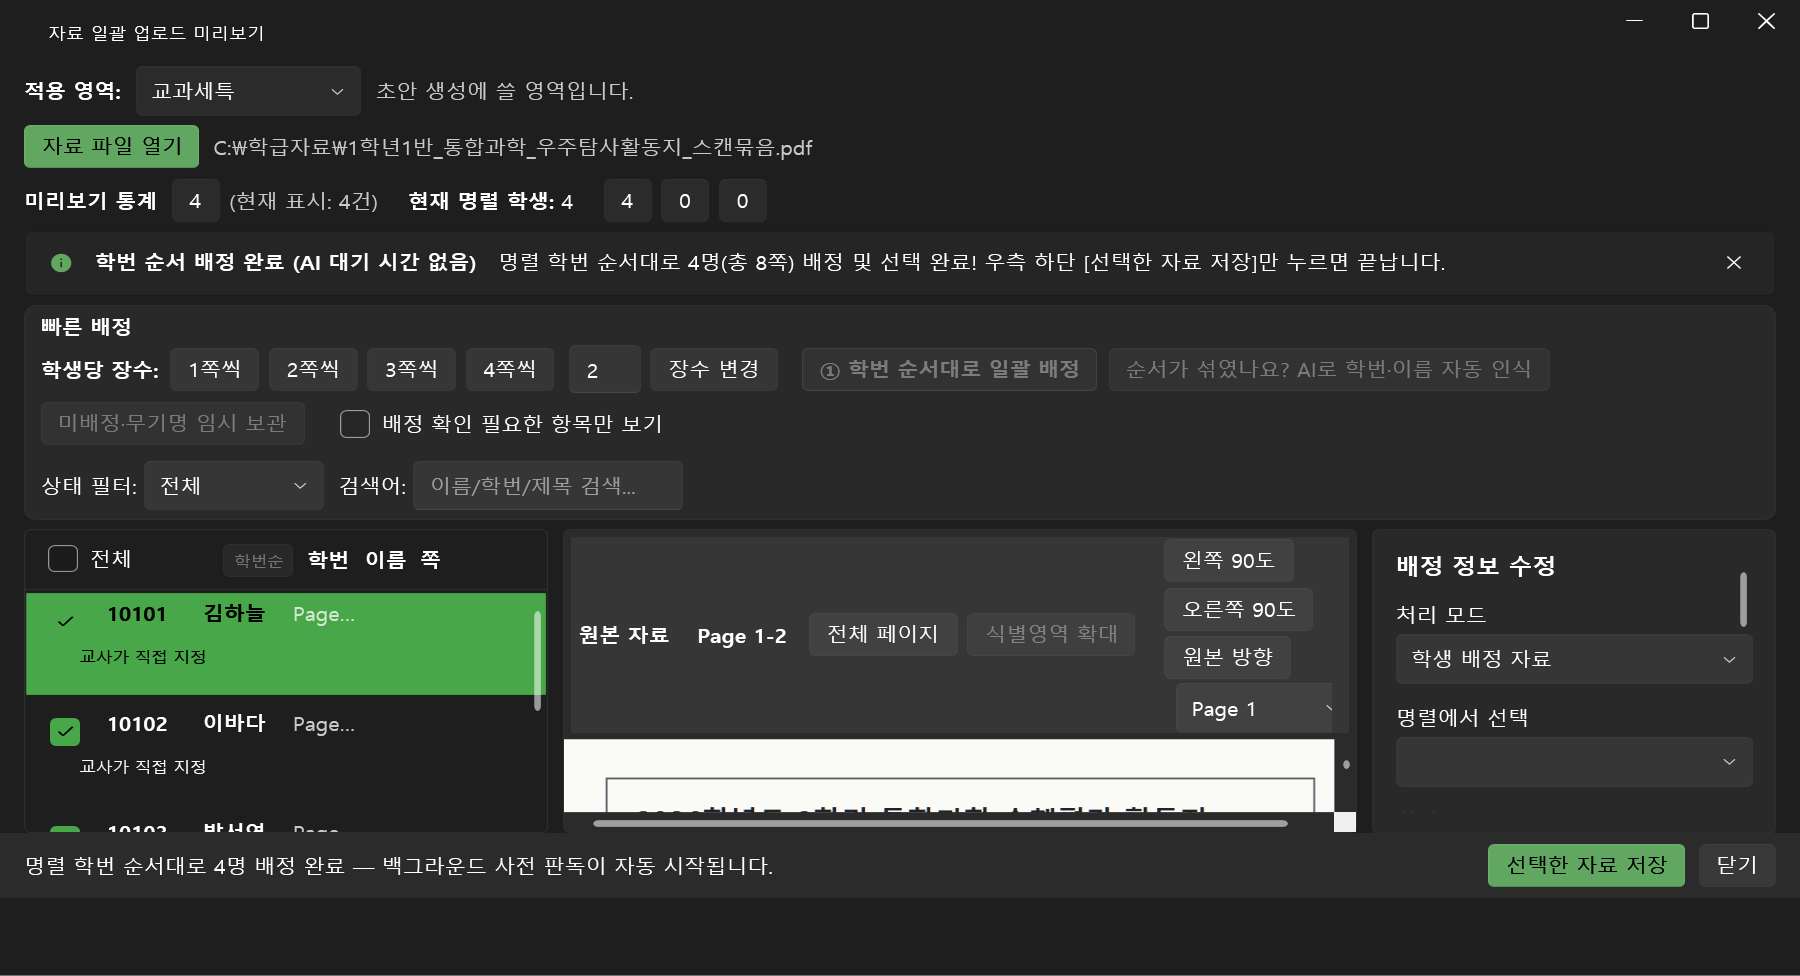
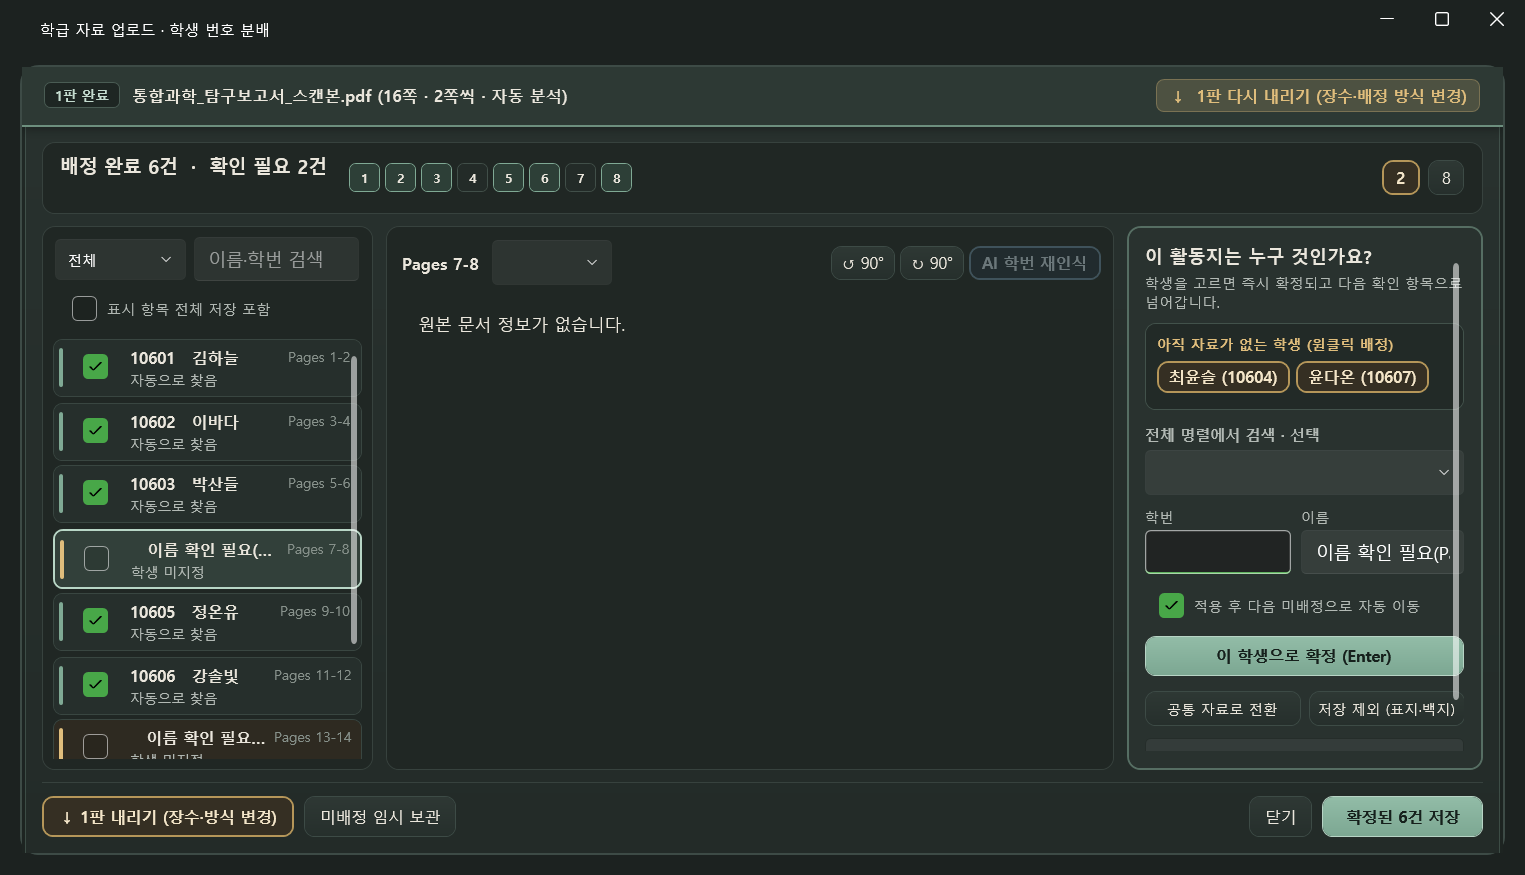
Update KIBU site and manual screenshots to v1.6.1 Slate Chalkboard edition

diff --git a/docs/manual.html b/docs/manual.html
@@ -140,7 +140,7 @@
                         <p>메인 화면 오른쪽 위 <strong>[설정]</strong>을 눌러 키를 붙여넣고 <strong>[API 키 연결 확인]</strong>을 눌러 보세요. <em>"연결 정상 — 바로 사용하실 수 있습니다!"</em> 문구가 나오면 하단 <strong>[저장]</strong>만 누르시면 됩니다.</p>
                         <div class="mockup-frame">
                             <div class="mockup-header"><div class="dot"></div><div class="dot"></div><div class="dot"></div></div>
-                            <img src="../img/17_API키_입력.png?v=150" alt="환경 설정 및 API 키 연결 확인">
+                            <img src="../img/17_API키_입력.png?v=161" alt="환경 설정 및 API 키 연결 확인">
                         </div>
 
                         <ul>
@@ -165,7 +165,7 @@
 
                         <div class="mockup-frame">
                             <div class="mockup-header"><div class="dot"></div><div class="dot"></div><div class="dot"></div></div>
-                            <img src="../img/20_프로젝트_생성.png?v=158" alt="시작 화면 및 최근 학급 프로젝트 이어하기">
+                            <img src="../img/20_프로젝트_생성.png?v=161" alt="시작 화면 및 최근 학급 프로젝트 이어하기">
                         </div>
 
                         <ul>
@@ -176,7 +176,7 @@
 
                         <div class="mockup-frame">
                             <div class="mockup-header"><div class="dot"></div><div class="dot"></div><div class="dot"></div></div>
-                            <img src="../img/26_스마트_단계안내.png?v=158" alt="단계별 스마트 가이드 보드 화면">
+                            <img src="../img/26_스마트_단계안내.png?v=161" alt="단계별 시작 안내 화면">
                         </div>
                     </section>
 
@@ -234,7 +234,7 @@
                         <p>나이스 명렬표 엑셀을 먼저 넣은 뒤, 학급 전체를 스캔한 묶음 PDF를 열면 AI를 기다리지 않고 페이지가 바로 나타납니다.</p>
                         <div class="mockup-frame">
                             <div class="mockup-header"><div class="dot"></div><div class="dot"></div><div class="dot"></div></div>
-                            <img src="../img/09_학생자료_자동배분.png?v=150" alt="스캔 묶음 빠른 배정 화면">
+                            <img src="../img/09_학생자료_자동배분.png?v=161" alt="스캔 묶음 번호 분배 화면">
                         </div>
                         <ol>
                             <li><strong>학생당 장수 고르기:</strong> 한 학생당 활동지가 2쪽이면 상단의 <strong>[2쪽씩]</strong> 버튼을 누릅니다.</li>
@@ -282,7 +282,7 @@
                         <p>그냥 기본 설정으로 생성하셔도 훌륭한 초안이 나오지만, 이번 수행평가에서 특별히 강조하고 싶은 결이 있다면 두 가지 방법으로 아주 쉽게 지정할 수 있습니다.</p>
                         <div class="mockup-frame">
                             <div class="mockup-header"><div class="dot"></div><div class="dot"></div><div class="dot"></div></div>
-                            <img src="../img/04_맞춤프롬프트_설정.png?v=160" alt="맞춤 작성 방향 · 프롬프트 센터">
+                            <img src="../img/04_맞춤프롬프트_설정.png?v=161" alt="작성 방식 · 서술 지침 칠판">
                         </div>
                         <ul>
                             <li><strong>① [맞춤 방향] 통합 프롬프트 센터:</strong> 과목에 상관없이 쓸 수 있는 5가지 대표 방향(<code>개념 적용·심화 탐구</code> / <code>비판적 분석·문제해결</code> / <code>창의 표현·산출물 완성</code> / <code>협력 소통·자기주도 성장</code> / <code>핵심 사실·역량 집약</code>) 중 하나만 누르고 <strong>[저장 후 현재 작업에 바로 적용]</strong>을 누르세요. 왼쪽 보관함에서 내 맞춤 지침을 수정·삭제하거나 파일로 내보내 동료 선생님과 바로 공유할 수도 있습니다.</li>
@@ -333,7 +333,7 @@
                         <p>검토 카드 제목 옆의 <strong>[금지어·규칙 설정]</strong>(또는 상단 <strong>[도구·화면 &rarr; 기재 안전 규칙 · 금지어 센터]</strong>)을 열면 기본 제공되는 교육부 금지어 외에 우리 학교 축제 이름이나 피하고 싶은 단어를 직접 추가하고 동료 교사와 파일로 공유할 수 있습니다.</p>
                         <div class="mockup-frame">
                             <div class="mockup-header"><div class="dot"></div><div class="dot"></div><div class="dot"></div></div>
-                            <img src="../img/12_규칙관리_금지어.png?v=160" alt="기재 안전 규칙 · 금지어 센터">
+                            <img src="../img/12_규칙관리_금지어.png?v=161" alt="기재 규칙 · 금지어 관리">
                         </div>
                         <ul>
                             <li>쉼표(<code>,</code>)로 여러 단어를 한 번에 적거나(예: <code>최고의, 완벽한, 천재적인</code>) 자동 치환 단어(예: <code>체육대회 &rarr; 체육활동</code>)를 지정하고 <strong>[저장 후 바로 적용]</strong>을 누르면 초안 생성·재검사는 물론 에디터 실시간 경고에도 즉시 반영됩니다.</li>

diff --git a/features.html b/features.html
@@ -69,7 +69,7 @@
                 <div class="col-lg-7 mt-5 mt-lg-0" data-aos="fade-left">
                     <div class="mockup-frame mb-4">
                         <div class="mockup-header"><div class="dot"></div><div class="dot"></div><div class="dot"></div></div>
-                        <img src="img/09_학생자료_자동배분.png?v=150" alt="학생자료 빠른 배정 화면" data-ph onerror="this.onerror=null;this.src='img/placeholder.svg'">
+                        <img src="img/09_학생자료_자동배분.png?v=161" alt="학생자료 빠른 배정 화면" data-ph onerror="this.onerror=null;this.src='img/placeholder.svg'">
                     </div>
                     <div class="row g-3">
                         <div class="col-6">
@@ -139,7 +139,7 @@
                 <div class="col-lg-7 mt-5 mt-lg-0" data-aos="fade-left">
                     <div class="mockup-frame">
                         <div class="mockup-header"><div class="dot"></div><div class="dot"></div><div class="dot"></div></div>
-                        <img src="img/04_맞춤프롬프트_설정.png?v=160" alt="맞춤 작성 방향 · 프롬프트 센터 화면" data-ph onerror="this.onerror=null;this.src='img/placeholder.svg'">
+                        <img src="img/04_맞춤프롬프트_설정.png?v=161" alt="작성 방식 · 서술 지침 화면" data-ph onerror="this.onerror=null;this.src='img/placeholder.svg'">
                     </div>
                 </div>
             </div>
@@ -193,7 +193,7 @@
                         <div class="col-md-6">
                             <div class="mockup-frame">
                                 <div class="mockup-header"><div class="dot"></div><div class="dot"></div><div class="dot"></div></div>
-                                <img src="img/12_규칙관리_금지어.png?v=160" alt="기재 안전 규칙 · 금지어 센터" data-ph onerror="this.onerror=null;this.src='img/placeholder.svg'">
+                                <img src="img/12_규칙관리_금지어.png?v=161" alt="기재 규칙 · 금지어 관리" data-ph onerror="this.onerror=null;this.src='img/placeholder.svg'">
                             </div>
                         </div>
                         <div class="col-md-6">
@@ -231,7 +231,7 @@
                         <div class="col-md-6">
                             <div class="mockup-frame">
                                 <div class="mockup-header"><div class="dot"></div><div class="dot"></div><div class="dot"></div></div>
-                                <img src="img/17_API키_입력.png?v=150" alt="쉬운 API 연동 및 3단 작동 방식" data-ph onerror="this.onerror=null;this.src='img/placeholder.svg'">
+                                <img src="img/17_API키_입력.png?v=161" alt="쉬운 API 연동 및 작동 방식" data-ph onerror="this.onerror=null;this.src='img/placeholder.svg'">
                             </div>
                         </div>
                         <div class="col-md-6">

diff --git a/index.html b/index.html
@@ -11,7 +11,7 @@
     <link rel="icon" type="image/x-icon" href="favicon.ico">
     <meta property="og:title" content="KIBU AI | 학교생활기록부 작성 도우미">
     <meta property="og:description" content="손글씨 스캔 활동지부터 한글·PPT·설문까지 학생별로 깔끔하게 정리하고, 선생님의 관점에 맞는 생기부 초안을 함께 다듬는 AI 도우미입니다.">
-    <meta property="og:image" content="https://kibuai.github.io/Kibu-site/img/01_메인화면_전체.png?v=157">
+    <meta property="og:image" content="https://kibuai.github.io/Kibu-site/img/01_메인화면_전체.png?v=161">
     <meta property="og:url" content="https://kibuai.github.io/Kibu-site/">
 
     <link rel="preconnect" href="https://cdn.jsdelivr.net" crossorigin>
@@ -71,7 +71,7 @@
             <div class="container mt-5" style="max-width: 1040px;" data-aos="fade-up" data-aos-delay="150">
                 <div class="mockup-frame">
                     <div class="mockup-header"><div class="dot"></div><div class="dot"></div><div class="dot"></div></div>
-                    <img src="img/01_메인화면_전체.png?v=157" alt="KIBU AI 메인화면" data-ph onerror="this.onerror=null;this.src='img/placeholder.svg'">
+                    <img src="img/01_메인화면_전체.png?v=161" alt="KIBU AI 메인화면" data-ph onerror="this.onerror=null;this.src='img/placeholder.svg'">
                 </div>
             </div>
         </div>
@@ -299,7 +299,7 @@
                     <div class="download-card p-5 text-center">
                         <div class="d-inline-flex align-items-center gap-2 bg-dark bg-opacity-25 px-3 py-1 rounded-pill mb-4">
                             <span class="badge bg-success">최신 버전</span>
-                            <span class="small version-pill">26.11.13 · v1.6.0</span>
+                            <span class="small version-pill">26.11.14 · v1.6.1</span>
                         </div>
                         <div class="d-grid gap-3 d-sm-flex justify-content-center mb-4">
                             <a href="https://github.com/KibuAI/Kibu-site/releases/latest/download/KibuBeta-win-Setup.exe" class="btn btn-primary-c btn-lg px-4 text-nowrap"><i class="bi bi-download me-2"></i> Windows용 설치 파일 다운로드</a>
